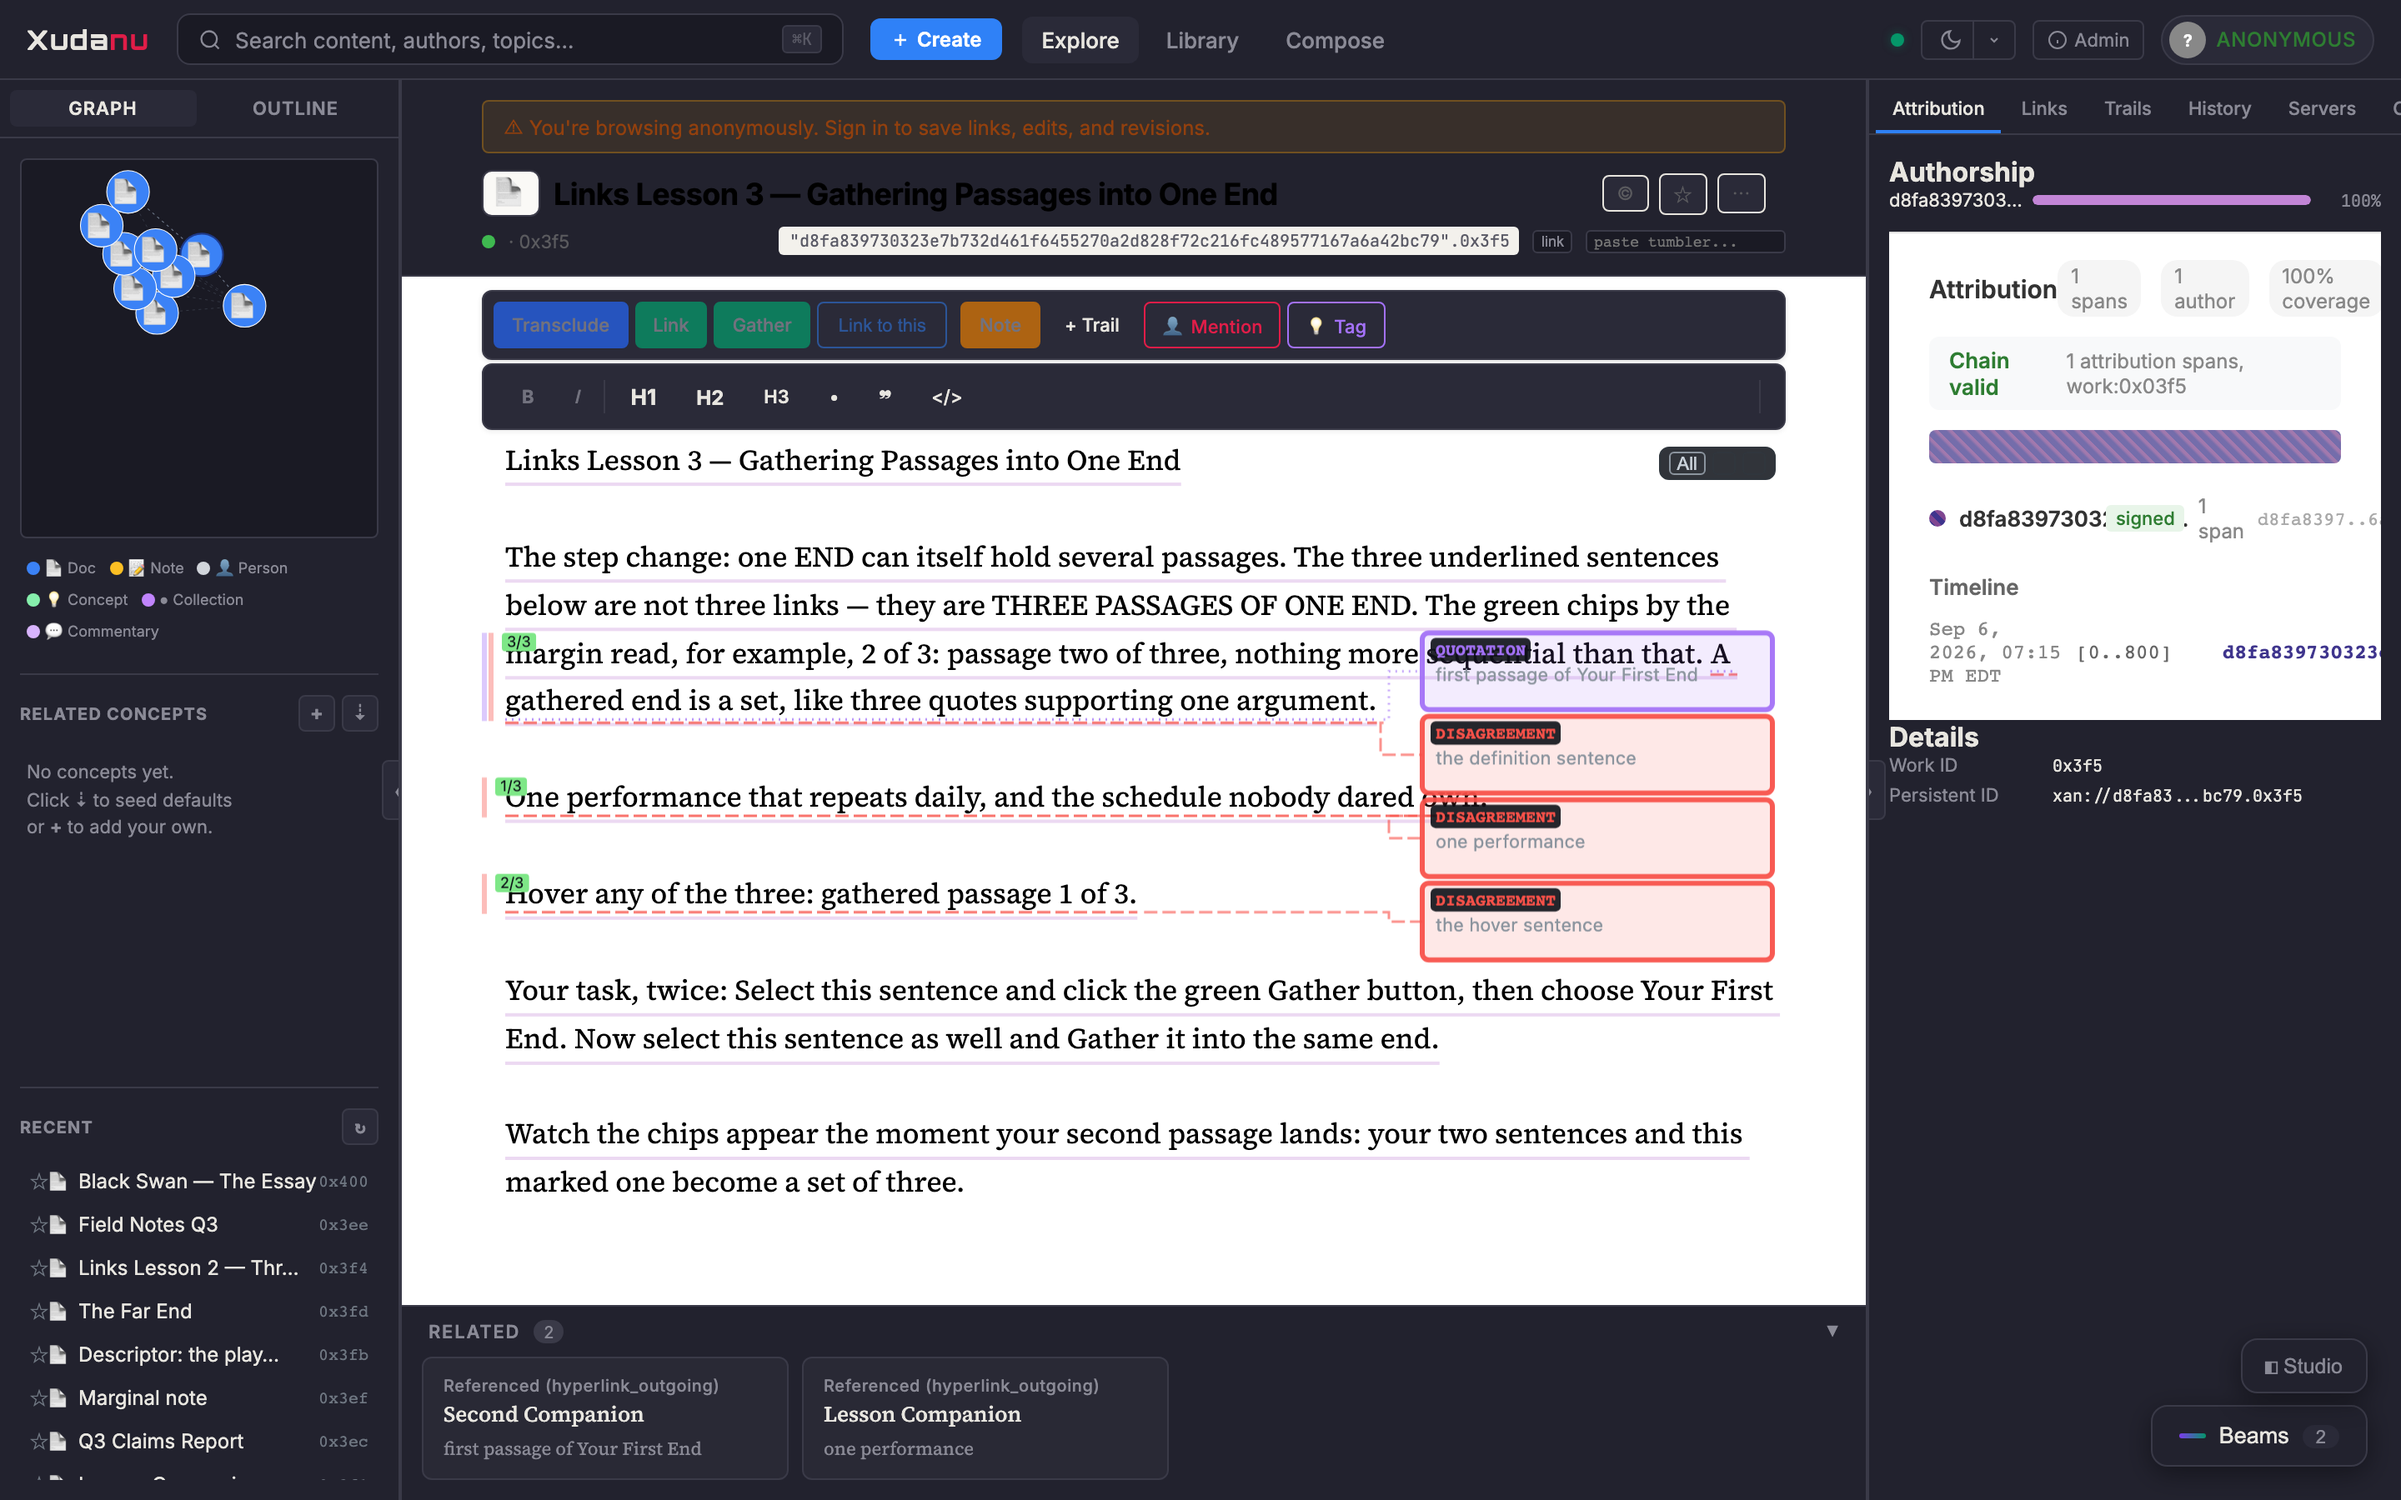
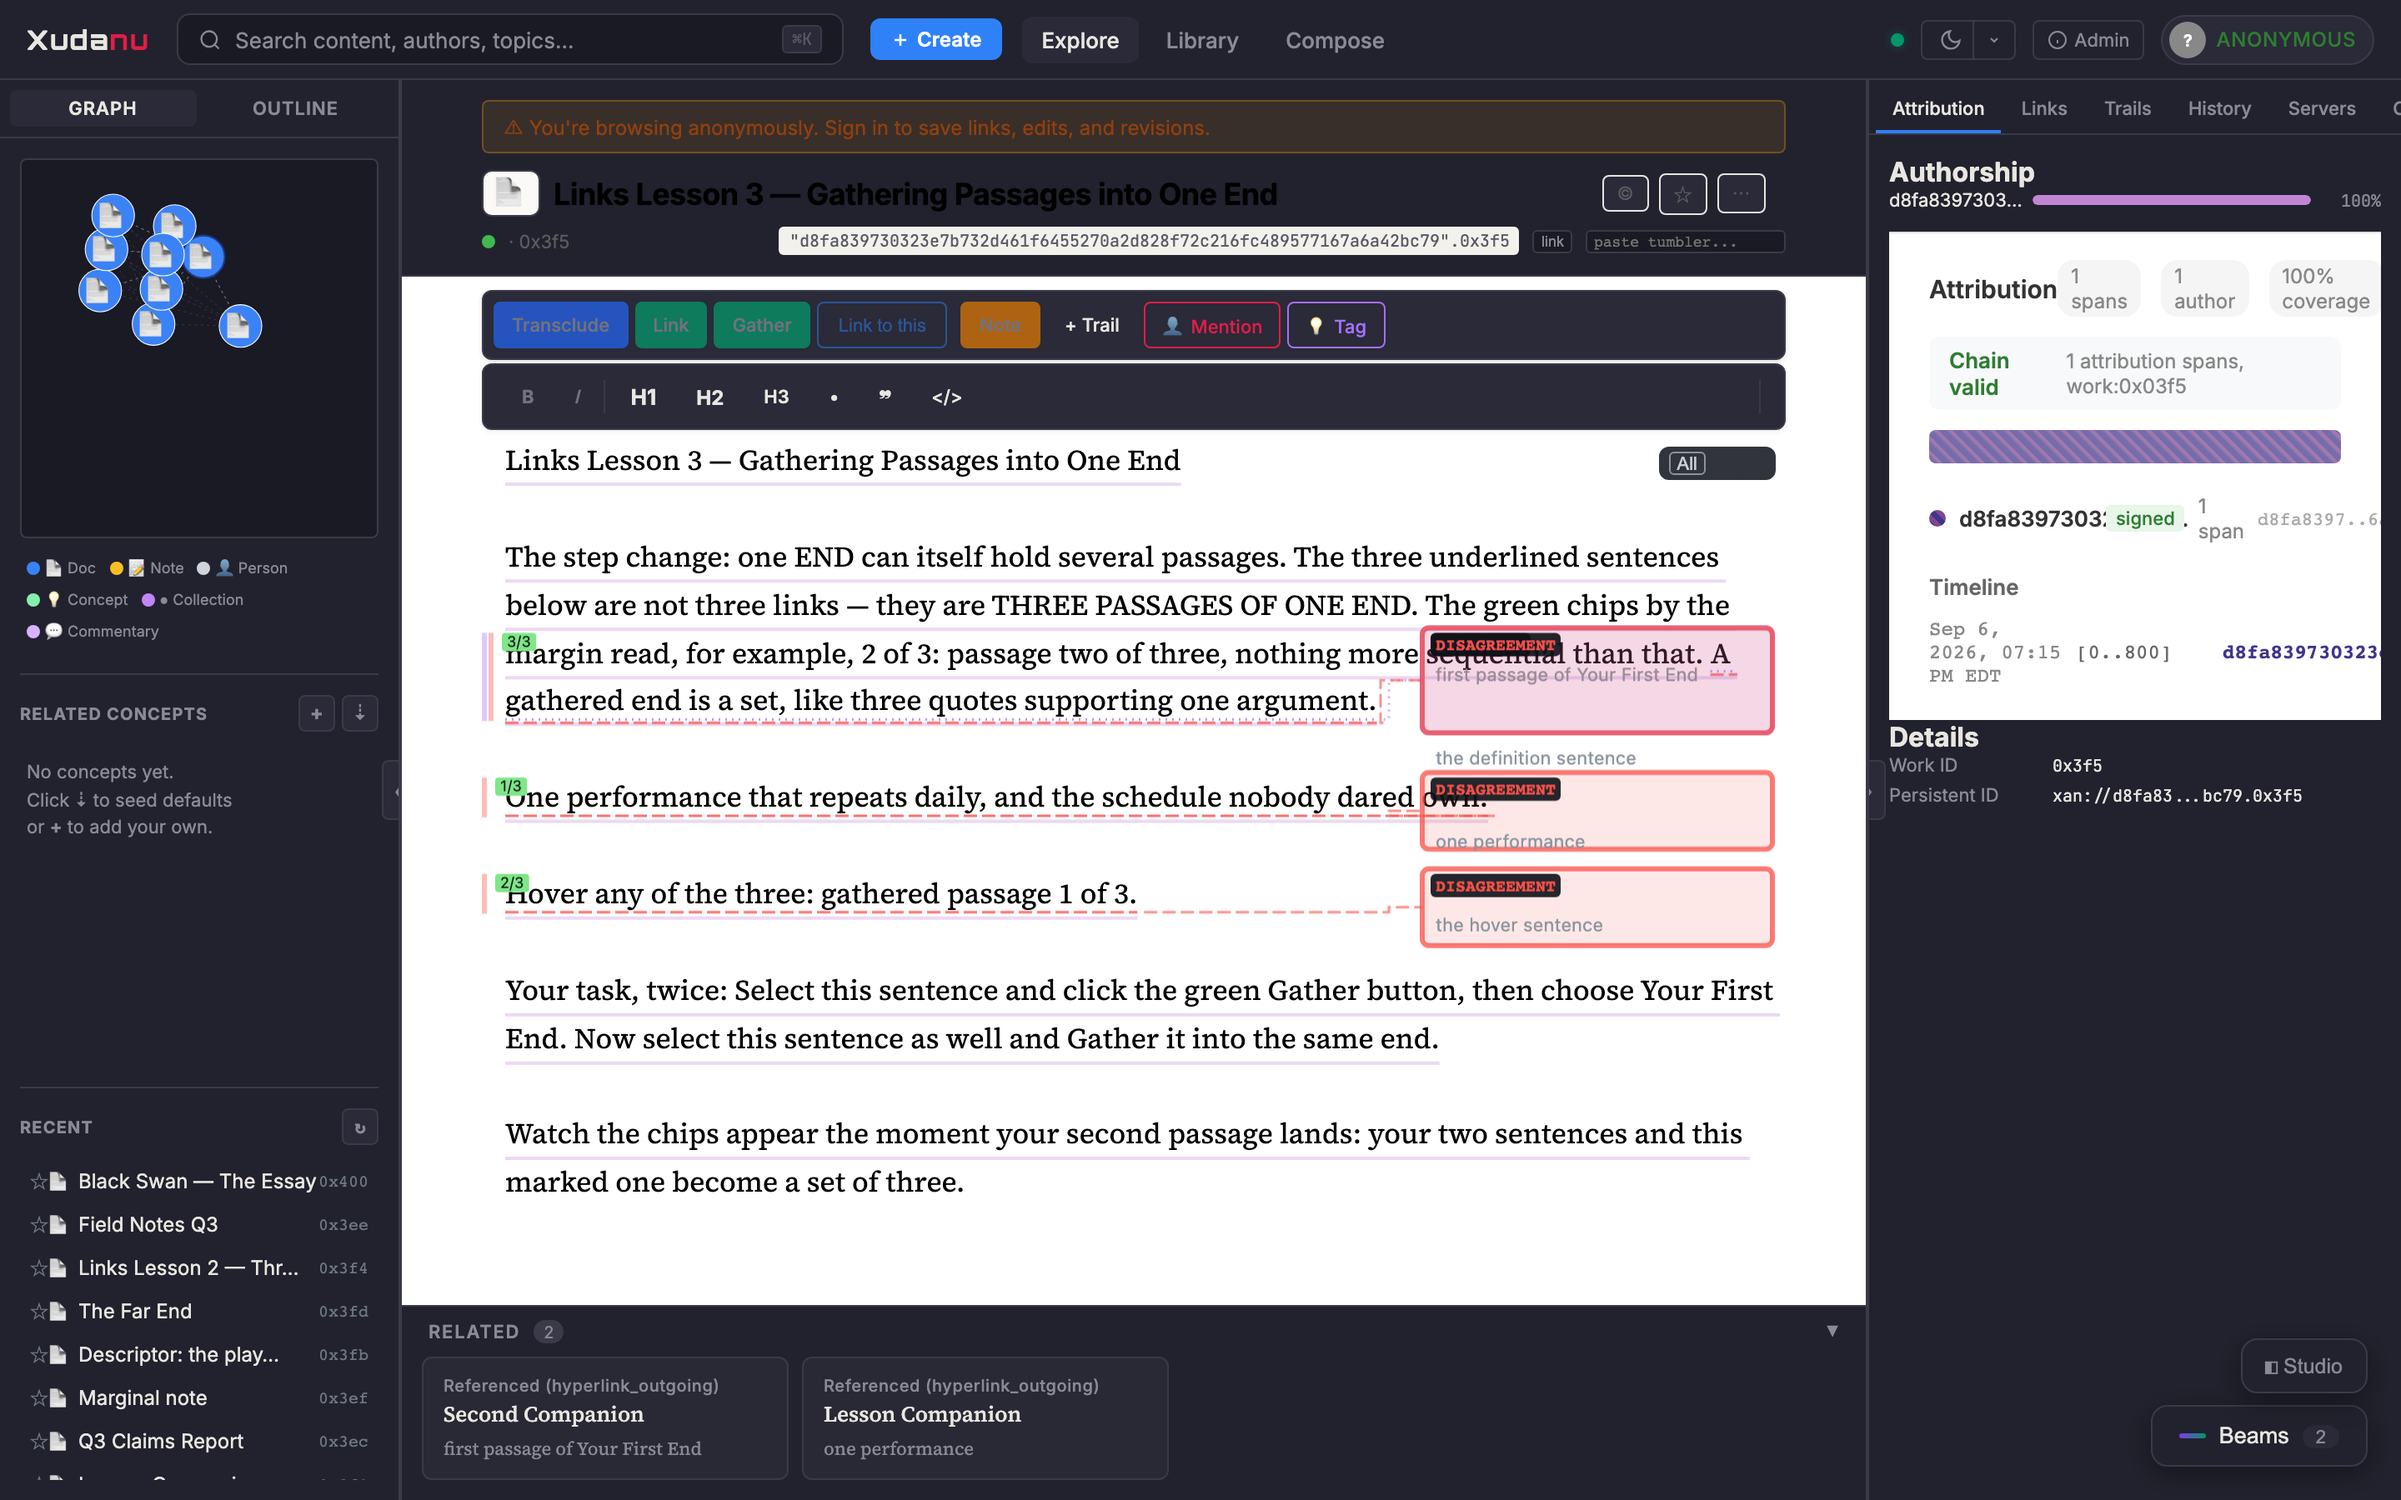
fix(ui): descriptor boxes — translucent border + descender breathing room
Round 3 feedback: (1) border F0 -> C0, slightly see-through;
(2) the fixed-height box bottom sat ON the last baseline so
descenders (g/y/p) crossed the thick border and read as a clipping
bug — box now sizes to the span with 3px head / 7px tail clearance.

Changed region(s): [[0.5625, 0.4044, 0.75, 0.6533], [0.0312, 0.0933, 0.125, 0.2489]]

diff --git a/web/app/src/components/CollaborativeEditor.tsx b/web/app/src/components/CollaborativeEditor.tsx
@@ -715,7 +715,16 @@ function drawOverlay(
     for (const { desc, y: boxY } of placedDescs) {
       ctx.globalAlpha = markerFocusAlpha(desc.marker, focusLinkId);
       if (desc.firstTop + DESC_BOX_HEIGHT < viewportTop || desc.firstTop > viewportBottom) continue;
-      const boxH = DESC_BOX_HEIGHT;
+      // Demo feedback round 3: the fixed-height box bottom border sat
+      // ON the last baseline — descenders (g/y/p) crossed the thick
+      // border and read as a clipping bug. Size the box to the span
+      // with breathing room instead: 3px above the first line, 7px
+      // below the last baseline so descenders clear the border.
+      const boxH = Math.max(
+        DESC_BOX_HEIGHT,
+        desc.height + 10,
+      );
+      const boxTop = boxY < desc.firstTop ? boxY : desc.firstTop - 3;
 
       const boxX = rect.width - DESC_BOX_WIDTH - DESC_BOX_RIGHT_MARGIN;
       const color = desc.typeStyle.color;
@@ -730,7 +739,7 @@ function drawOverlay(
       const startX = desc.textRightX + 4;
       const endX = boxX;
       const lineY = desc.firstTop + desc.height - 1 + desc.lane * 2;
-      const boxMidY = boxY + boxH / 2;
+      const boxMidY = boxTop + boxH / 2;
       const elbowX = endX - 20 - desc.lane * 5;
       ctx.moveTo(startX, lineY);
       ctx.lineTo(elbowX, lineY);
@@ -752,20 +761,20 @@ function drawOverlay(
       // legible over the wash.
       const fillA = "22";
       ctx.fillStyle = color + fillA;
-      ctx.strokeStyle = isResolved ? color + "60" : color + "F0";
+      ctx.strokeStyle = isResolved ? color + "50" : color + "C0";
       if (isResolved) ctx.setLineDash([3, 2]);
       ctx.lineWidth = 3;
       ctx.beginPath();
       const r = 4;
-      ctx.moveTo(boxX + r, boxY);
-      ctx.lineTo(boxX + DESC_BOX_WIDTH - r, boxY);
-      ctx.arcTo(boxX + DESC_BOX_WIDTH, boxY, boxX + DESC_BOX_WIDTH, boxY + r, r);
-      ctx.lineTo(boxX + DESC_BOX_WIDTH, boxY + boxH - r);
-      ctx.arcTo(boxX + DESC_BOX_WIDTH, boxY + boxH, boxX + DESC_BOX_WIDTH - r, boxY + boxH, r);
-      ctx.lineTo(boxX + r, boxY + boxH);
-      ctx.arcTo(boxX, boxY + boxH, boxX, boxY + boxH - r, r);
-      ctx.lineTo(boxX, boxY + r);
-      ctx.arcTo(boxX, boxY, boxX + r, boxY, r);
+      ctx.moveTo(boxX + r, boxTop);
+      ctx.lineTo(boxX + DESC_BOX_WIDTH - r, boxTop);
+      ctx.arcTo(boxX + DESC_BOX_WIDTH, boxTop, boxX + DESC_BOX_WIDTH, boxTop + r, r);
+      ctx.lineTo(boxX + DESC_BOX_WIDTH, boxTop + boxH - r);
+      ctx.arcTo(boxX + DESC_BOX_WIDTH, boxTop + boxH, boxX + DESC_BOX_WIDTH - r, boxTop + boxH, r);
+      ctx.lineTo(boxX + r, boxTop + boxH);
+      ctx.arcTo(boxX, boxTop + boxH, boxX, boxTop + boxH - r, r);
+      ctx.lineTo(boxX, boxTop + r);
+      ctx.arcTo(boxX, boxTop, boxX + r, boxTop, r);
       ctx.closePath();
       ctx.fill();
       ctx.stroke();
@@ -779,10 +788,10 @@ function drawOverlay(
       const tw = ctx.measureText(label).width;
       ctx.fillStyle = "#0d1117e6";
       ctx.beginPath();
-      ctx.roundRect(boxX + 5, boxY + 3, tw + 6, 14, 3);
+      ctx.roundRect(boxX + 5, boxTop + 3, tw + 6, 14, 3);
       ctx.fill();
       ctx.fillStyle = isResolved ? color + "60" : color;
-      ctx.fillText(label, boxX + 8, boxY + 5);
+      ctx.fillText(label, boxX + 8, boxTop + 5);
 
       ctx.fillStyle = isResolved ? "#484f58" : "#8b949e";
       ctx.font = `${isResolved ? "italic " : ""}11px -apple-system, BlinkMacSystemFont, 'Segoe UI', Roboto, sans-serif`;
